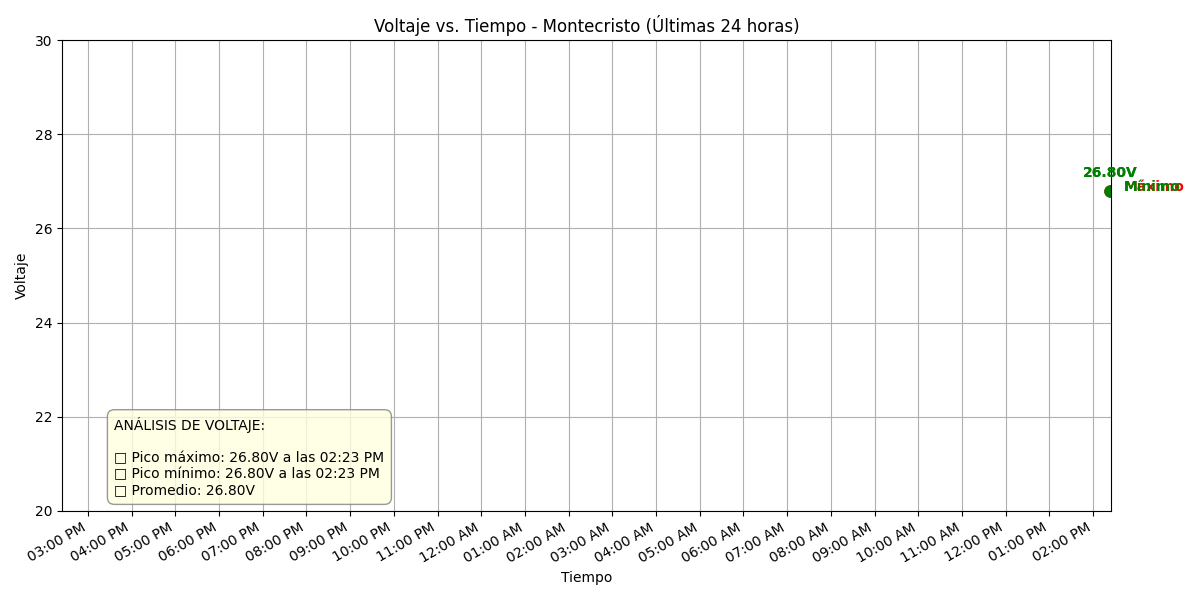
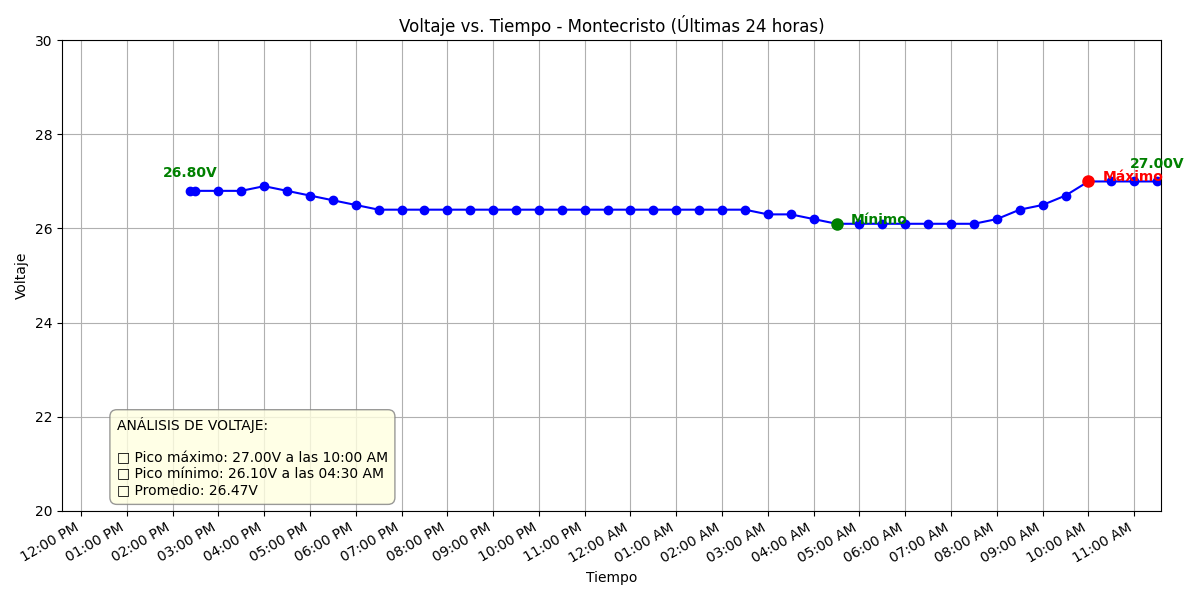
feat: Update group name and enhance command information in bot

diff --git a/index.js b/index.js
@@ -21,7 +21,7 @@ console.log('Iniciando script...');
 
 // Configuración
 const CONFIG = {
-    GROUP_NAME: "Bitacora Omar",
+    GROUP_NAME: "Soportes",
     SUPPORT_COMMAND: "soporte@red",
     PING_COMMAND: "ping@",
     CLIENT_COMMAND: "cliente@",
@@ -172,7 +172,7 @@ client.on('message', async (msg) => {
     console.log('Mensaje recibido:', msg.body);
     try {
         const chat = await msg.getChat();
-        if (chat.name === CONFIG.GROUP_NAME) {
+        if (chat.name === CONFIG.GROUP_NAME || chat.name === "bot") {
             console.log(`Mensaje recibido en el grupo ${chat.name}: ${msg.body}`);
             if (msg.body.includes(CONFIG.SUPPORT_COMMAND)) {
                 console.log('Comando de soporte detectado. Enviando estado del sistema...');
@@ -739,38 +739,42 @@ async function handleAvailableIPsCommand(chat) {
 
 async function handleCommandsInfo(chat) {
     const commandsInfo = `
-Comandos disponibles:
+        Comandos disponibles:
 
-1. ${CONFIG.SUPPORT_COMMAND}
-   Ejemplo: soporte@red
-   Descripción: Muestra el estado actual del sistema (uso de CPU y memoria).
+        1. ${CONFIG.SUPPORT_COMMAND}
+        Ejemplo: soporte@red
+        Descripción: Muestra el estado actual del sistema (uso de CPU y memoria).
 
-2. ${CONFIG.PING_COMMAND}
-   Ejemplo: ping@192.168.1.1
-   Descripción: Realiza un ping a la IP especificada y muestra el resultado.
+        2. ${CONFIG.PING_COMMAND}
+        Ejemplo: ping@192.168.1.1
+        Descripción: Realiza un ping a la IP especificada y muestra el resultado.
 
-3. ${CONFIG.CLIENT_COMMAND}
-   Ejemplo: cliente@Juan Pérez
-   Descripción: Busca información de un cliente por nombre, apellido, dirección o cédula.
+        3. ${CONFIG.CLIENT_COMMAND}
+        Ejemplo: cliente@Juan Pérez
+        Descripción: Busca información de un cliente por nombre, apellido, dirección o cédula.
 
-4. ${CONFIG.IP_COMMAND}
-   Ejemplo: ip@disponibles
-   Descripción: Muestra una lista de IPs disponibles en diferentes redes.
+        4. ${CONFIG.IP_COMMAND}
+        Ejemplo: ip@disponibles
+        Descripción: Muestra una lista de IPs disponibles en diferentes redes.
 
-5. ${CONFIG.COMMANDS_INFO}
-   Ejemplo: comandos@
-   Descripción: Muestra esta lista de comandos disponibles.
+        5. ${CONFIG.INFO_COMMAND}
+        Ejemplo: info@192.168.1.1
+        Descripción: Obtiene información detallada de un dispositivo por IP (Mikrotik/Ubiquiti).
 
-6. ${CONFIG.VOLT_COMMANDS.montecristo}
-   Ejemplo: volt@montecristo
-   Descripción: Muestra el voltaje actual en la estación Montecristo.
+        6. ${CONFIG.COMMANDS_INFO}
+        Ejemplo: comandos@
+        Descripción: Muestra esta lista de comandos disponibles.
 
-7. ${CONFIG.VOLT_COMMANDS.retiro}
-   Ejemplo: volt@retiro
-   Descripción: Muestra el voltaje actual en la estación Retiro.   
+        7. ${CONFIG.VOLT_COMMANDS.montecristo}
+        Ejemplo: volt@montecristo
+        Descripción: Muestra el voltaje actual en la estación Montecristo.
 
-Recuerda que todos estos comandos deben ser utilizados dentro del grupo "${CONFIG.GROUP_NAME}".
-    `;
+        8. ${CONFIG.VOLT_COMMANDS.retiro}
+        Ejemplo: volt@retiro
+        Descripción: Muestra el voltaje actual en la estación Retiro.
+
+        Recuerda que todos estos comandos deben ser utilizados dentro del grupo "${CONFIG.GROUP_NAME}".
+            `;
 
     await chat.sendMessage(commandsInfo);
 }
